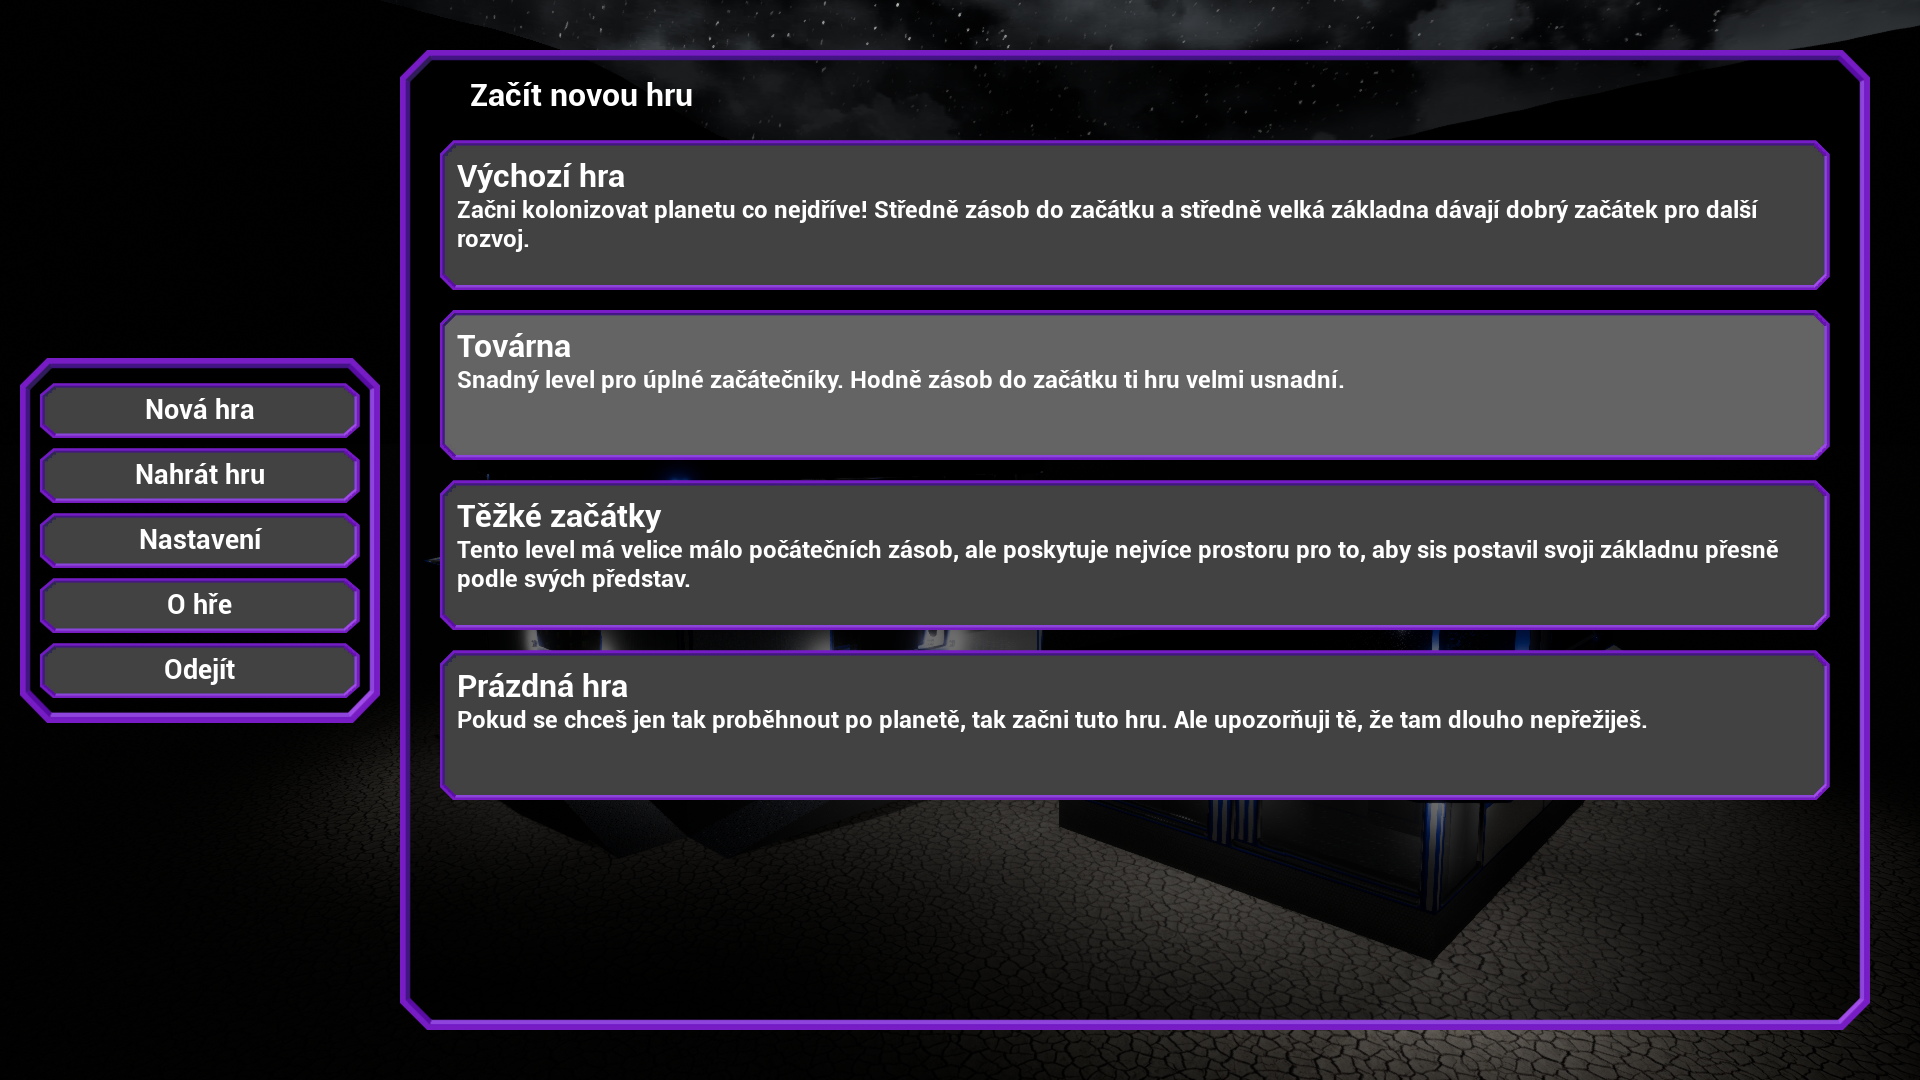
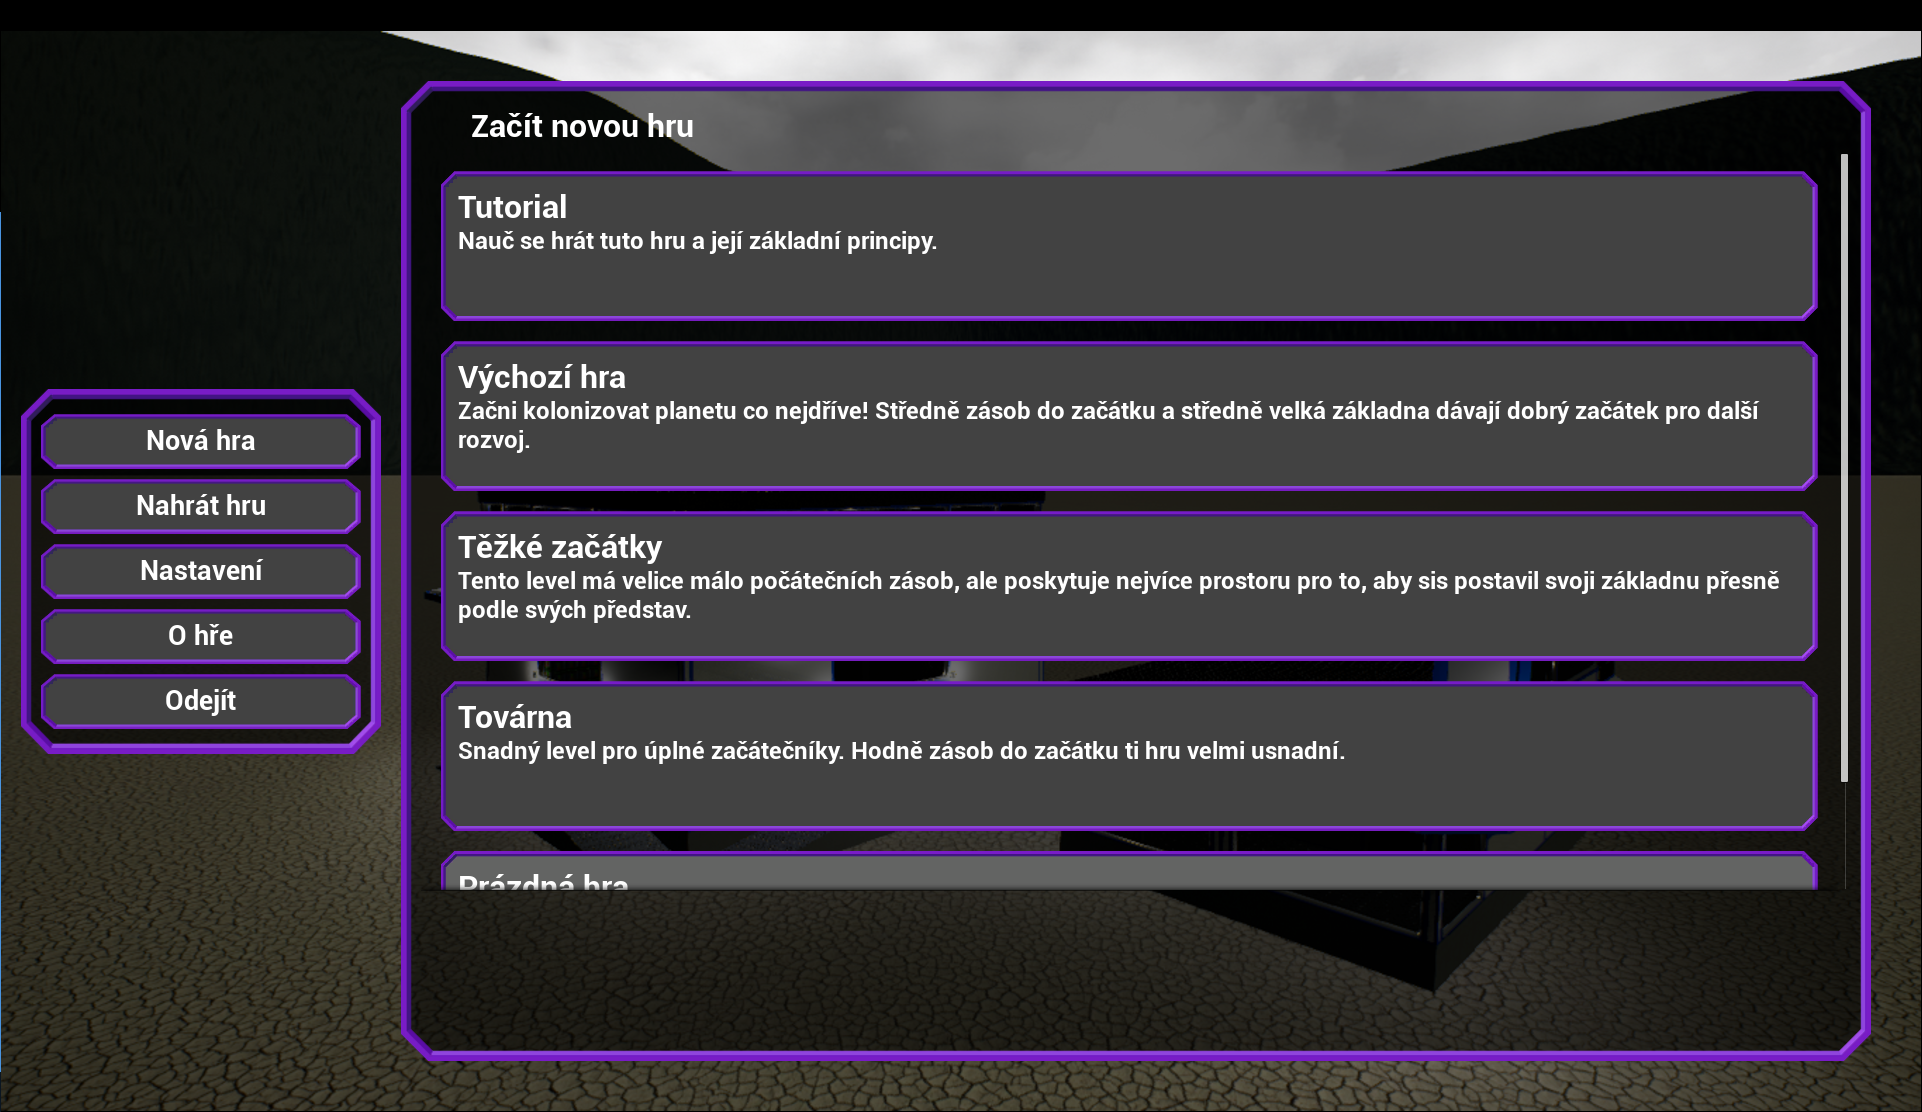
trulolo

diff --git a/Source/cs/text/4_programatorskaDokumentace/50_module_Commons.tex b/Source/cs/text/4_programatorskaDokumentace/50_module_Commons.tex
@@ -14,7 +14,7 @@ V souboru \TT{GameDefinitions.h} jsou definovány všechny herní konstanty. Nap
 
 Herní instance \TT{TCF2GameInstance} se chová jako návrhový vzor \textit{Singleton} a~jako jediná zůstává vždy stejná po celou dobu běhu hry (jak uchovávat globální data~\citep{ue_gameInstance}). Proto se využívá například pro uchovávání dat při přechodu mezi jednotlivými mapami a~my toho také využijeme. Zároveň se tato třída dá využít pro implementaci delegátů, kterými je možné vyvolat nějakou událost a~libovolný prvek z~herního světa může tuto událost obsloužit. Této funkcionality využíváme u~reakce na denní cyklus u~bloku \RB{B5}.
 
-Dalším důležitou vlastností této třídy je to, že tato třída drží referenci na všechny nalezené definice bloků. K~tomu slouží proměnná \TT{BlockHolder}, která sice drží referenci na objekt definovaný v~modulu \textit{Blocks}, ale kvůli zpětným referencím mezi moduly (které nejsou povolené) zde musíme použít dostupného předka. Tato funkcionalita vypadá následovně:
+Další důležitou vlastností této třídy je to, že tato třída drží referenci na všechny nalezené definice bloků. K~tomu slouží proměnná \TT{BlockHolder}, která sice drží referenci na objekt definovaný v~modulu \textit{Blocks}, ale kvůli zpětným referencím mezi moduly (které nejsou povolené) zde musíme použít dostupného předka. Tato funkcionalita vypadá následovně:
 
 \begin{code}
 	UPROPERTY(Transient)
@@ -26,9 +26,9 @@ Dalším důležitou vlastností této třídy je to, že tato třída drží re
 
 
 
- Parametr \TT{Transient} u~makra \TT{UPROPERTY} znamená, že daná proměnná bude vždy nastavena na svoji výchozí hodnotu. V~tomto případě je to použito spíše z~důvodu zachování konzistence napříč projektu, ale zjednodušeně bychom důsledky mohli popsat následovně -- u~Blueprintu, který dědí z~nějaké \CPP{} třídy, může vývojář nastavit výchozí hodnoty vlastností. Tyto hodnoty jsou pak serializovány do \CDO{}, cože je \textit{Class Default Object} (otázka na Answers Unreal Engine~\citep{ue_cdo}). Během procesu vytváření nové instance objektu, který vychází z~daného Blueprintu pak budou tyto hodnoty naplněny během fáze \textit{inicializace vlstností} (popis životního cyklu actorů~\citep{ue_actor_life}). V~konečném důsledku by pak byla tato hodnota nějakým způsobem naplněna. Pokud chceme vynutit, aby tato vlastnost nebyla serializována do \CDO{}, tak ji označíme jako \TT{Transient}.
+ Parametr \TT{Transient} u~makra \TT{UPROPERTY} znamená, že daná proměnná bude vždy nastavena na svoji výchozí hodnotu. V~tomto případě je to použito spíše z~důvodu zachování konzistence napříč projektu, ale zjednodušeně bychom důsledky mohli popsat následovně -- u~Blueprintu, který dědí z~nějaké \CPP{} třídy, může vývojář nastavit výchozí hodnoty vlastností. Tyto hodnoty jsou pak serializovány do \CDO{}, což je \textit{Class Default Object} (otázka na Answers Unreal Engine~\citep{ue_cdo}). Během procesu vytváření nové instance objektu, který vychází z~daného Blueprintu pak budou tyto hodnoty naplněny během fáze \textit{inicializace vlastností} (popis životního cyklu actorů~\citep{ue_actor_life}). V~konečném důsledku by pak byla tato hodnota nějakým způsobem naplněna. Pokud chceme vynutit, aby tato vlastnost nebyla serializována do \CDO{}, tak ji označíme jako \TT{Transient}.
 
-V průběhu hry pak jednou naplníme tuto vlastnost pomocí metody\\ \TT{SetHolderInstance}, do které předáme referenci na korektně inicializovanou instanci třídy \TT{BlockHolder} z~modulu \textit{Blocks}. Pak si můžeme odkudkoliv získat aktuální herní instanci, přetypovat ji nana \TT{TCF2GameInstance} a~získat si (přetypovanou) referenci na \TT{BlockHolder}. Z~této třídy pak již můžeme získávat informace o~všech dostupných blocích.
+V průběhu hry pak jednou naplníme tuto vlastnost pomocí metody\\ \TT{SetHolderInstance}, do které předáme referenci na korektně inicializovanou instanci třídy \TT{BlockHolder} z~modulu \textit{Blocks}. Pak si můžeme odkudkoliv získat aktuální herní instanci, přetypovat ji na \TT{TCF2GameInstance} a~získat si (přetypovanou) referenci na \TT{BlockHolder}. Z~této třídy pak již můžeme získávat informace o~všech dostupných blocích.
 
 \subsection{Výčtové typy}
 

diff --git a/Source/cs/text/5_uzivatelskaDokumentace/uzivatelskaDokumentace.tex b/Source/cs/text/5_uzivatelskaDokumentace/uzivatelskaDokumentace.tex
@@ -2,8 +2,6 @@
 
 \chapter{Uživatelská dokumentace}
 
-Tato část obsahuje informace o~tom, jak hru spustit a~jaké jsou požadavky ke spuštění. Dále jsou zde uvedeny obrázky ze hry a~popis toho, co znamenají. 
-
 \section{Požadavky pro spuštění hry}
 \subsubsection{Hardwarové požadavky}
 
@@ -15,7 +13,7 @@ Doporučená minimální sestava (na ní byla hra vyvíjena):
 		Procesor: 	&	Intel i7-2630QM @ 2.00GHz \\	\hline
 		RAM:		&	12 GB	(8 GB by mělo také stačit) \\	\hline
 		Grafika:	&	ATI Radeon HD 6700M \\	\hline
-		OS:			&	Win 10 x64	(7 a~vyšší by měly být v~pohodě) \\
+		OS:			&	Win 10 x64	(7 a~vyšší by měly též fungovat) \\
 		\hline
 	\end{tabular}
 \end{center}
@@ -24,22 +22,29 @@ Výše uvedneou konfiguraci je potřeba brát jako orientační. Hru jsme úspě
 
 \subsubsection{Softwarové požadavky}
 
-Pro spuštění zkompilované hry není potřeba nic speciálního. Je zapotřebí mít stroj s~minimální uvedenou konfigurací. Dále je dobré mít nainstalované poslední verze ovladačů HW komponent (hlavně grafiky).
-Taktéž je zapotřebí mít nainstalovanou poslední verzi DirectX. 
+Pro spuštění zkompilované hry není potřeba nic speciálního. Je zapotřebí mít stroj s~minimální uvedenou konfigurací. Dále je dobré mít nainstalované poslední verze ovladačů HW komponent (hlavně grafiky). Taktéž je zapotřebí mít nainstalovanou poslední verzi DirectX a~C++ runtime. Tyto části lze doinstalovat z~přiloženého DVD ze složky \textit{Redist}.
 
 
-%// TODO povolit obrázky
+\section{Tutoriál}
+Tato hra obsahuje pokročilý tutoriál, ve kterém se lze snadno naučit veškeré principy hry. Ten je dostupný z~dialogu výběru nové hry. Proto se nebudeme zabývat podrobným popisem uživatelské dokumentace.
+\begin{figure}[!ht]\centering
+\includegraphics[ width=140mm]{../img/user/mainMenu/mmTut}
 
-TODO zmínit tutoriál, jak se k~němu člověk dostane.
+\caption{Výběr herního tutoriálu}
+\label{fig:usr_tut}
 
-%\input{./text/5_uzivatelskaDokumentace/0_hlavniMenu.tex}
-%\input{./text/5_uzivatelskaDokumentace/1_game_save.tex}
-%\input{./text/5_uzivatelskaDokumentace/2_game_inventory.tex}
-%\input{./text/5_uzivatelskaDokumentace/3_game_terminal.tex}
-%\input{./text/5_uzivatelskaDokumentace/4_game_buildActions.tex}
-%\input{./text/5_uzivatelskaDokumentace/5_game_tank.tex}
-%\input{./text/5_uzivatelskaDokumentace/6_game_filler.tex}
-%\input{./text/5_uzivatelskaDokumentace/7_game_switcher.tex}
-%\input{./text/5_uzivatelskaDokumentace/8_game_light.tex}
-%\input{./text/5_uzivatelskaDokumentace/9_game_rain.tex}
+\end{figure}
+\FloatBarrier
+
+
+\input{./text/5_uzivatelskaDokumentace/0_hlavniMenu.tex}
+\input{./text/5_uzivatelskaDokumentace/1_game_save.tex}
+\input{./text/5_uzivatelskaDokumentace/2_game_inventory.tex}
+\input{./text/5_uzivatelskaDokumentace/3_game_terminal.tex}
+\input{./text/5_uzivatelskaDokumentace/4_game_buildActions.tex}
+\input{./text/5_uzivatelskaDokumentace/5_game_tank.tex}
+\input{./text/5_uzivatelskaDokumentace/6_game_filler.tex}
+\input{./text/5_uzivatelskaDokumentace/7_game_switcher.tex}
+\input{./text/5_uzivatelskaDokumentace/8_game_light.tex}
+\input{./text/5_uzivatelskaDokumentace/9_game_rain.tex}
 

diff --git a/Source/cs/text/5_uzivatelskaDokumentace/2_game_inventory.tex b/Source/cs/text/5_uzivatelskaDokumentace/2_game_inventory.tex
@@ -17,7 +17,7 @@ Inventář se vyvolá klávesou \textbf{E}. Zobrazí se následující obrazovka
 V horní části je výběr skupin. Je možné vybírat z~10 skupin, které si lze pojmenovat dle libosti. Dále je možné je (de)aktivovat buď kliknutím na zelený / červený čtverec, nebo skrze příslušný checkbox v~editaci skupiny.
 Je možné používat standardní změnu skupiny klávesami \textbf{ú} a~\textbf{)}, editační okno se pak příslušným způsobem změní. 
 
-V \textit{levé} části je \textbf{editor skupiny}, jehož funkce budou popsány v~textu dále. \textit{Uprostřed} je možné vidět postavitelné či umístitelné položky, které jsou dofiltrovány dle právě nastaveného filtru. Výběrem položky lze editovat její vlastnosti v~\textit{pravé} části okna
+V \textit{levé} části je \textbf{editor skupiny}, jehož funkce budou popsány v~textu dále. \textit{Uprostřed} je možné vidět postavitelné či umístitelné položky, které jsou dofiltrovány dle právě nastaveného filtru. Výběrem položky lze editovat její vlastnosti v~\textit{pravé} části okna.
 
 \FloatBarrier
 
@@ -79,7 +79,7 @@ Označené položky je také možné smazat z~inventáře. Umístitelné položk
 \end{figure}
 
 \FloatBarrier
-V případě, že je zvolena položka s~dodatečnými parametry, je možné jejich hodnoty vidět v~editoru vlastností bloku
+V případě, že je zvolena položka s~dodatečnými parametry, je možné jejich hodnoty vidět v~editoru vlastností bloku.
 
 \begin{figure}[!ht]\centering
 \includegraphics[ width=140mm]{../img/user/inventory/6itemWithParams}

diff --git a/Source/cs/text/5_uzivatelskaDokumentace/9_game_rain.tex b/Source/cs/text/5_uzivatelskaDokumentace/9_game_rain.tex
@@ -2,7 +2,7 @@
 
 \section{Kyselý déšť}
 
-Pokud se blíží bouře kyselého deště, nebo právě jedna probíhá, hráč vidí v~levé horní části obrazovky zprávu s~odhadovaným časem a~intenzitou.
+Pokud se blíží bouře kyselého deště, nebo právě jedna probíhá, hráč vidí v~pravé horní části obrazovky zprávu s~odhadovaným časem a~intenzitou.
 
 To umožňuje strategicky řídit chod svých budov a~případně limitovat spotřebovávané zdroje v~případě očekávaných dlouhotrvajících bouří. Odhadovaný čas je udán v~herním čase.
 
@@ -16,7 +16,7 @@ To umožňuje strategicky řídit chod svých budov a~případně limitovat spot
 
 \FloatBarrier
 
-Pokud hráč není ukrytý v~budově či pod nějakým blokem, dostává zásahy. Dokud má dostatek energie, je schopen odolávat účinkům bouře, v~momentě, kdy mu energie dojde, začne mu ubývat zdraví.
+Pokud hráč není ukrytý v~budově či pod nějakým blokem, dostává zásahy. Dokud má dostatek energie, je schopen odolávat účinkům bouře. V~momentě, kdy mu energie dojde, začne mu ubývat zdraví.
 
 
 \begin{figure}[!ht]\centering

diff --git a/Source/cs/text/10_prilohy/0_prilohy.tex b/Source/cs/text/10_prilohy/0_prilohy.tex
@@ -10,6 +10,7 @@
 Struktura vypadá následovně:
 \begin{itemize}
 	\item \textit{Build} -- tato složka obsahuje výslednou zkompilovanou hru, kterou je možné spustit.
+	\item \textit{Redist} -- v~případě, že zkompilovanou hru nepůjde spustit, bude nutné doinstalovat nutné součásti ze souborů z~této složky.
 	\item \textit{Source} -- v~této složce se nachází zdrojové soubory hry.
 	\item \textit{Survey} -- pod touto složkou je možné nalézt soubor dotazníku se získanými odpověďmi.
 \end{itemize}
@@ -200,7 +201,7 @@ float                                       PowerConsumptionPercent
 TArray<FString>                             Tags
 \end{code}
 
-\newpage
+
 
 
 \subsubsection{FInventoryTags}

diff --git a/Source/cs/text/5_uzivatelskaDokumentace/3_game_terminal.tex b/Source/cs/text/5_uzivatelskaDokumentace/3_game_terminal.tex
@@ -79,7 +79,7 @@ V sekci \textit{Nastavení} je možné kromě tagů definovat i~požadovanou vel
 
 \FloatBarrier
 
-Některé bloky, třeba \textbf{Dveře} požadují dodatečné parametry, které ovlivňují jejich výsledné chování. V~našem případě to je smysl otevírání dveří při čelním pohledu. Na obrázku je vidět stav po rozkliknutí.
+Některé bloky, třeba \textbf{Dveře}, požadují dodatečné parametry, které ovlivňují jejich výsledné chování. V~našem případě to je smysl otevírání dveří při čelním pohledu. Na obrázku je vidět stav po rozkliknutí.
 
 \begin{figure}[!ht]\centering
 \includegraphics[ width=140mm]{../img/user/terminal/6builderParams}

diff --git a/Source/cs/text/5_uzivatelskaDokumentace/7_game_switcher.tex b/Source/cs/text/5_uzivatelskaDokumentace/7_game_switcher.tex
@@ -2,7 +2,7 @@
 
 \section{Přepínač}
 
-Přepínač slouží jako ovládání pro světla a~plničku
+Přepínač slouží jako ovládání pro Světla a~Plničku.
 
 \begin{figure}[!ht]\centering
 \includegraphics[ width=140mm]{../img/user/switcher/0switcherGeneral}
@@ -16,7 +16,7 @@ Přepínač slouží jako ovládání pro světla a~plničku
 
 Blok umožňuje reagovat na denní dobu -- automatické přepínání na definovaný stav, pokud začne den, nebo začne noc.
 
-V levé části le možné přiřazovat ovládané bloky
+V levé části je možné přiřazovat ovládané bloky.
 
 \begin{figure}[!ht]\centering
 \includegraphics[ width=140mm]{../img/user/switcher/switcherControls}

diff --git a/Source/cs/text/5_uzivatelskaDokumentace/0_hlavniMenu.tex b/Source/cs/text/5_uzivatelskaDokumentace/0_hlavniMenu.tex
@@ -26,7 +26,7 @@ První volba, kterou je možné zvolit, je výběr nové hry. K~dispozici je ně
 \end{figure}
 \FloatBarrier
 
-Pokud hráč má nějaké uložené hry, může si je nahrát kliknutím na tlačítko \textbf{Nahrát hru}. V~tomto případě žádné uložené hry k~načtení k~dispozici nejsou.
+Pokud má hráč nějaké uložené hry, může si je nahrát kliknutím na tlačítko \textbf{Nahrát hru}. V~tomto případě žádné uložené hry k~načtení k~dispozici nejsou.
 
 \begin{figure}[!ht]\centering
 \includegraphics[ width=140mm]{../img/user/mainMenu/mmLoad}

diff --git a/Source/cs/text/5_uzivatelskaDokumentace/5_game_tank.tex b/Source/cs/text/5_uzivatelskaDokumentace/5_game_tank.tex
@@ -3,7 +3,7 @@
 \section{Umístitelné předměty}
 
 Blok \textbf{Kyslíková bomba} je možné umístit do světa a~pak si ho opět vzít do inventáře. Díky tomu je možné tyto bloky dále používat třeba pro plnění v~\textbf{Plničce kyslíkových bomb}.
-Blok je možné buď rovnou použít (levé tlačítko myši).
+Blok je možné rovnou použít (levým tlačítkem myši).
 Tento blok zároveň rovnou ukazuje, kolik objemu je využito.
 
 \begin{figure}[!ht]\centering
